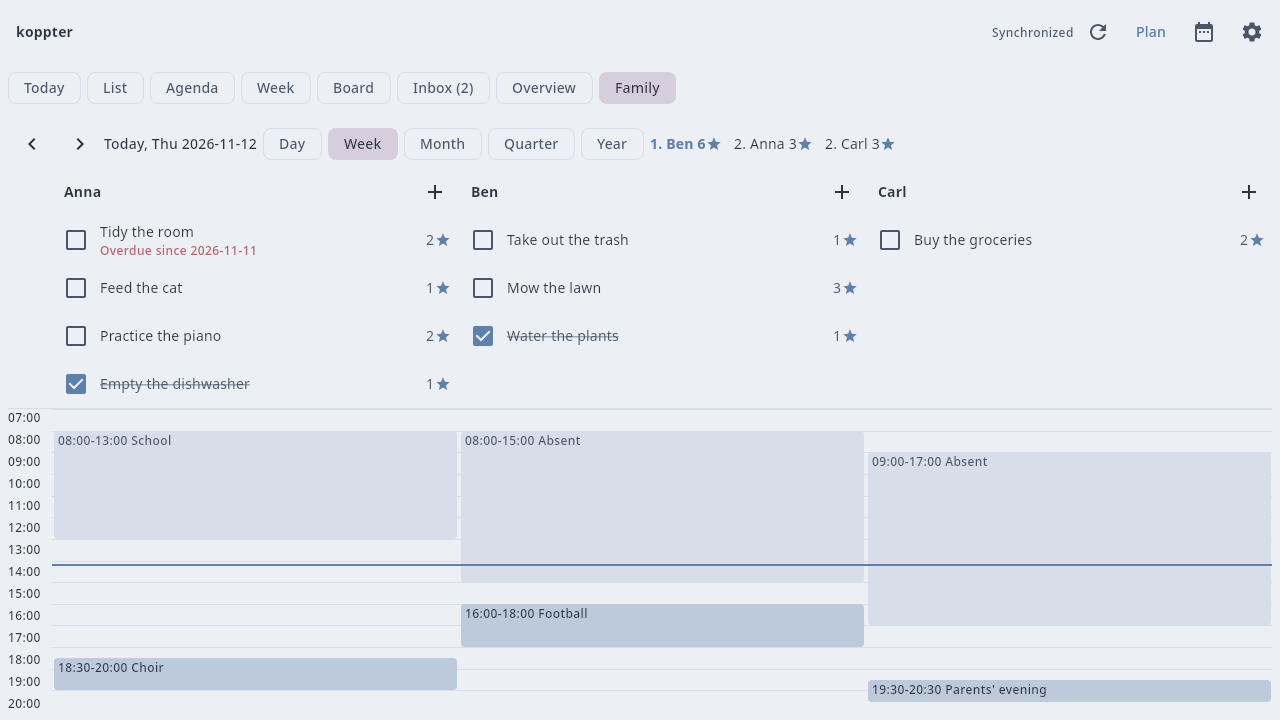
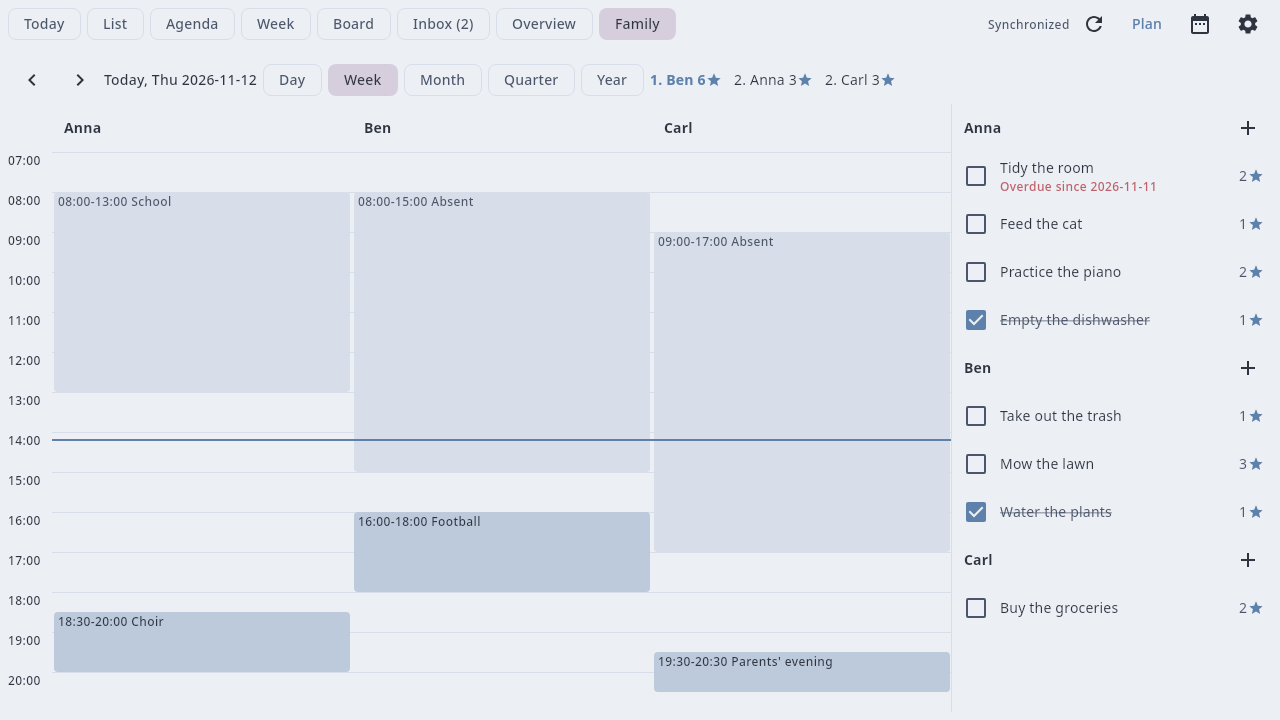
Show the calendar of a family first and its tasks below or beside it
The family view starts with the day of all members, in columns narrow enough for a phone, and lists the tasks per member below the calendar, or beside it in a window that is wider than high, where the hours need the height.

diff --git a/app/src/commonMain/kotlin/io/github/koppor/koppter/ui/FamilyCalendar.kt b/app/src/commonMain/kotlin/io/github/koppor/koppter/ui/FamilyCalendar.kt
@@ -31,6 +31,7 @@ import androidx.compose.material3.IconButton
 import androidx.compose.material3.MaterialTheme
 import androidx.compose.material3.Text
 import androidx.compose.material3.TextButton
+import androidx.compose.material3.VerticalDivider
 import androidx.compose.runtime.Composable
 import androidx.compose.runtime.getValue
 import androidx.compose.runtime.mutableStateOf
@@ -38,11 +39,13 @@ import androidx.compose.runtime.remember
 import androidx.compose.runtime.setValue
 import androidx.compose.ui.Alignment
 import androidx.compose.ui.Modifier
+import androidx.compose.ui.platform.LocalDensity
 import androidx.compose.ui.platform.testTag
 import androidx.compose.ui.text.font.FontWeight
 import androidx.compose.ui.text.style.TextDecoration
 import androidx.compose.ui.text.style.TextOverflow
 import androidx.compose.ui.unit.dp
+import io.github.koppor.koppter.plan.Appointment
 import io.github.koppor.koppter.plan.CalendarTxt
 import io.github.koppor.koppter.plan.Family
 import io.github.koppor.koppter.plan.RankingPeriod
@@ -53,14 +56,26 @@ import kotlinx.datetime.LocalDate
 import kotlinx.datetime.minus
 import kotlinx.datetime.plus
 
-/** A column still shows some words of a task beside the box and the stars; with more members than fit, the columns scroll sideways. */
-private val MIN_MEMBER_WIDTH = 200.dp
+/** A column of the calendar still shows the start and a word of a block; with more members than fit, the columns scroll sideways. */
+private val MIN_CALENDAR_WIDTH = 120.dp
+
+/** From this width of its column on, a block has the room to name its end as well. */
+private val ENDS_WIDTH = 180.dp
+
+/** The tasks of a member still show some words of a task beside the box and the stars. */
+private val MIN_TASKS_WIDTH = 240.dp
+
+/** From this width on, the tasks beside the calendar leave it two columns. */
+private val BESIDE_WIDTH = 600.dp
+
+// ponytail: a fixed width; a handle kept in the settings when the texts of the tasks need more.
+private val TASKS_WIDTH = 320.dp
 private val HOURS_WIDTH = 44.dp
 
 /**
- * The day of a family: the ranking of the members by their stars, and a column per member with the tasks of the day to tick off
- * and, below them, the day as a calendar with the appointments of the member and the blocks of the `calendar.txt` of the list
- * of the member, such as the times at which the member is absent.
+ * The day of a family: the ranking of the members by their stars, the day as a calendar with a column per member,
+ * which shows the appointments of the member and the blocks of the `calendar.txt` of the list of the member, such as the times
+ * at which the member is absent, and the tasks of the day of each member to tick off: below the calendar, or beside it in a wide window.
  */
 // [impl->dsn~family-view~1]
 @Composable
@@ -81,12 +96,6 @@ fun FamilyCalendar(
     // With the date as key: a tablet that runs for weeks shows the new day each morning.
     var day by remember(today) { mutableStateOf(today) }
     val ranking = Family.ranking(entries.map { it.task }, members, period, day)
-    val appointments = members.associateWith { Family.appointments(entries, it, members, day) }
-    val blocks = members.associateWith { member -> blocksOf(member).filter { it.date == day } }
-    val spans = appointments.values.flatten().map { it.span } + blocks.values.flatten().map { it.span }
-    // From breakfast to the evening at least, so that an empty day has a grid as well.
-    val firstHour = minOf(7, spans.minOfOrNull { it.start / 60 } ?: 7)
-    val lastHour = maxOf(21, spans.maxOfOrNull { (it.end + 59) / 60 } ?: 21)
 
     Column(Modifier.padding(8.dp).testTag("family")) {
         // On a phone, the periods of the ranking wrap below the day instead of leaving the screen.
@@ -133,48 +142,83 @@ fun FamilyCalendar(
             Text(problem, Modifier.padding(horizontal = 12.dp).testTag("family-problem"), color = MaterialTheme.colorScheme.error)
         }
         BoxWithConstraints(Modifier.fillMaxSize()) {
-            val width = maxOf(MIN_MEMBER_WIDTH, (maxWidth - HOURS_WIDTH) / members.size)
-            // The tasks leave the larger part to the calendar; more tasks than fit scroll.
-            val tasksHeight = maxHeight * 0.4f
-            Column(Modifier.horizontalScroll(rememberScrollState())) {
+            val calendars: @Composable (Modifier) -> Unit = { modifier ->
+                MemberCalendars(
+                    members.associateWith { member -> blocksOf(member).filter { it.date == day } },
+                    members.associateWith { Family.appointments(entries, it, members, day) },
+                    day, nowMinute.takeIf { day == today }, onOpen, modifier,
+                )
+            }
+            val tasks: @Composable (Modifier) -> Unit = { modifier ->
+                MemberTasks(members.associateWith { Family.todos(entries, it, members, day, today) }, today, onToggle, onOpen, onAdd, modifier)
+            }
+            // A window that is wider than high, such as a tablet or a phone held across, has few hours to give away:
+            // the calendar keeps the height and the tasks stand beside it.
+            if (maxWidth > maxHeight && maxWidth >= BESIDE_WIDTH) {
                 Row {
-                    Spacer(Modifier.width(HOURS_WIDTH))
-                    for (member in members) MemberHeader(member, onAdd = { onAdd(member) }, Modifier.width(width))
+                    calendars(Modifier.weight(1f))
+                    VerticalDivider()
+                    tasks(Modifier.width(TASKS_WIDTH))
                 }
-                Row(Modifier.heightIn(max = tasksHeight).verticalScroll(rememberScrollState())) {
-                    Spacer(Modifier.width(HOURS_WIDTH))
-                    for (member in members) {
-                        Column(Modifier.width(width).testTag("family-tasks-$member")) {
-                            val tasks = Family.todos(entries, member, members, day, today)
-                            if (tasks.isEmpty()) {
-                                Text("No tasks", Modifier.padding(horizontal = 12.dp, vertical = 8.dp), color = MaterialTheme.colorScheme.onSurfaceVariant)
-                            }
-                            for (entry in tasks) FamilyTask(entry, today, onToggle = { onToggle(entry) }, onOpen = { onOpen(entry) })
+            } else {
+                // Below the calendar, the tasks leave it the larger part.
+                val tasksHeight = maxHeight * 0.4f
+                Column {
+                    calendars(Modifier.weight(1f))
+                    HorizontalDivider()
+                    tasks(Modifier.heightIn(max = tasksHeight))
+                }
+            }
+        }
+    }
+}
+
+/** The day as a calendar with a column per member, under the name of the member. */
+@Composable
+private fun MemberCalendars(
+    blocks: Map<String, List<TextBlock>>,
+    appointments: Map<String, List<Appointment>>,
+    day: LocalDate,
+    nowMinute: Int?,
+    onOpen: (Entry) -> Unit,
+    modifier: Modifier,
+) {
+    val spans = appointments.values.flatten().map { it.span } + blocks.values.flatten().map { it.span }
+    // From breakfast to the evening at least, so that an empty day has a grid as well.
+    val firstHour = minOf(7, spans.minOfOrNull { it.start / 60 } ?: 7)
+    val lastHour = maxOf(21, spans.maxOfOrNull { (it.end + 59) / 60 } ?: 21)
+    BoxWithConstraints(modifier) {
+        val width = maxOf(MIN_CALENDAR_WIDTH, (maxWidth - HOURS_WIDTH) / blocks.size)
+        Column(Modifier.horizontalScroll(rememberScrollState())) {
+            Row {
+                Spacer(Modifier.width(HOURS_WIDTH))
+                for (member in blocks.keys) MemberHeader(member, onAdd = null, Modifier.width(width))
+            }
+            BoxWithConstraints(Modifier.weight(1f)) {
+                // The hours share the height that is left, so that the day is seen at once; only in a low window it scrolls.
+                val hourHeight = maxOf(MIN_HOUR_HEIGHT, maxHeight / (lastHour - firstHour))
+                // A low window does not show the whole day: it starts an hour before now.
+                // ponytail: once, when the view is opened; follow the time when a low window shows the view for days.
+                val start = with(LocalDensity.current) { (hourHeight * ((nowMinute ?: 0) / 60 - 1 - firstHour).coerceAtLeast(0)).roundToPx() }
+                val scroll = rememberScrollState(start)
+                Row(Modifier.verticalScroll(scroll)) {
+                    Column(Modifier.width(HOURS_WIDTH).testTag("family-hours")) {
+                        for (hour in firstHour until lastHour) {
+                            Text("${hour.toString().padStart(2, '0')}:00", Modifier.height(hourHeight), style = MaterialTheme.typography.labelSmall)
                         }
                     }
-                }
-                HorizontalDivider(Modifier.width(HOURS_WIDTH + width * members.size))
-                BoxWithConstraints(Modifier.weight(1f)) {
-                    // The hours share the height that is left, so that the day is seen at once; only in a low window it scrolls.
-                    val hourHeight = maxOf(MIN_HOUR_HEIGHT, maxHeight / (lastHour - firstHour))
-                    Row(Modifier.verticalScroll(rememberScrollState())) {
-                        Column(Modifier.width(HOURS_WIDTH).testTag("family-hours")) {
-                            for (hour in firstHour until lastHour) {
-                                Text("${hour.toString().padStart(2, '0')}:00", Modifier.height(hourHeight), style = MaterialTheme.typography.labelSmall)
-                            }
-                        }
-                        for (member in members) {
-                            // An appointment is a block with a task; the number of its line tells two with the same text apart.
-                            val tasks = appointments.getValue(member).associate { TextBlock(day, it.span, "${it.entry.task.description} #${it.entry.index}") to it.entry }
-                            Box(Modifier.width(width).testTag("family-calendar-$member")) {
-                                // The appointments last, so that one in a time of absence lies on top of it.
-                                DayColumn(
-                                    blocks.getValue(member) + tasks.keys, firstHour, lastHour, hourHeight,
-                                    entryOf = { tasks[it] }, suffixOf = { "" }, onOpen = onOpen, highlight = false,
-                                    nowMinute = nowMinute.takeIf { day == today },
-                                    ends = true,
-                                )
-                            }
+                    for (member in blocks.keys) {
+                        // An appointment is a block with a task; the number of its line tells two with the same text apart.
+                        val tasks = appointments.getValue(member).associate { TextBlock(day, it.span, "${it.entry.task.description} #${it.entry.index}") to it.entry }
+                        Box(Modifier.width(width).testTag("family-calendar-$member")) {
+                            // The appointments last, so that one in a time of absence lies on top of it.
+                            DayColumn(
+                                blocks.getValue(member) + tasks.keys, firstHour, lastHour, hourHeight,
+                                entryOf = { tasks[it] }, suffixOf = { "" }, onOpen = onOpen, highlight = false,
+                                nowMinute = nowMinute,
+                                ends = width >= ENDS_WIDTH,
+                                scroll = scroll,
+                            )
                         }
                     }
                 }
@@ -183,13 +227,53 @@ fun FamilyCalendar(
     }
 }
 
-/** The name of a member and the button for a new task of the member. */
+/** The tasks of the day of each member, to tick off, under the name of the member and the button for a new task of the member. */
 @Composable
-private fun MemberHeader(member: String, onAdd: () -> Unit, modifier: Modifier) {
-    Row(modifier.padding(start = 12.dp).testTag("family-member-$member"), verticalAlignment = Alignment.CenterVertically) {
+private fun MemberTasks(
+    tasks: Map<String, List<Entry>>,
+    today: LocalDate,
+    onToggle: (Entry) -> Unit,
+    onOpen: (Entry) -> Unit,
+    onAdd: (String) -> Unit,
+    modifier: Modifier,
+) {
+    val scroll = rememberScrollState()
+    Column(modifier) {
+        BoxWithConstraints(Modifier.weight(1f, fill = false)) {
+            // As many members beside each other as the width holds.
+            val width = maxWidth / (maxWidth / MIN_TASKS_WIDTH).toInt().coerceIn(1, tasks.size)
+            FlowRow(Modifier.verticalScroll(scroll)) {
+                for ((member, own) in tasks) {
+                    Column(Modifier.width(width).testTag("family-tasks-$member")) {
+                        MemberHeader(member, onAdd = { onAdd(member) }, Modifier.fillMaxWidth())
+                        if (own.isEmpty()) {
+                            Text("No tasks", Modifier.padding(horizontal = 12.dp, vertical = 8.dp), color = MaterialTheme.colorScheme.onSurfaceVariant)
+                        }
+                        for (entry in own) FamilyTask(entry, today, onToggle = { onToggle(entry) }, onOpen = { onOpen(entry) })
+                    }
+                }
+            }
+        }
+        // Without it, nothing tells that members follow below the last task in view.
+        if (scroll.canScrollForward) {
+            Text(
+                "More tasks below", Modifier.fillMaxWidth().padding(horizontal = 12.dp, vertical = 2.dp).testTag("family-more"),
+                style = MaterialTheme.typography.labelSmall, color = MaterialTheme.colorScheme.onSurfaceVariant,
+            )
+        }
+    }
+}
+
+/** The name of a member and, with [onAdd], the button for a new task of the member. */
+@Composable
+private fun MemberHeader(member: String, onAdd: (() -> Unit)?, modifier: Modifier) {
+    // As high as with the button, so that the names of the calendar and of the tasks look the same.
+    Row(modifier.padding(start = 12.dp).heightIn(min = 48.dp), verticalAlignment = Alignment.CenterVertically) {
         Text(member, Modifier.weight(1f), style = MaterialTheme.typography.titleLarge, maxLines = 1, overflow = TextOverflow.Ellipsis)
-        IconButton(onClick = onAdd, modifier = Modifier.testTag("family-add-$member")) {
-            Icon(Icons.Filled.Add, contentDescription = "New task of $member")
+        if (onAdd != null) {
+            IconButton(onClick = onAdd, modifier = Modifier.testTag("family-add-$member")) {
+                Icon(Icons.Filled.Add, contentDescription = "New task of $member")
+            }
         }
     }
 }

diff --git a/app/src/desktopTest/kotlin/io/github/koppor/koppter/ui/AppTest.kt b/app/src/desktopTest/kotlin/io/github/koppor/koppter/ui/AppTest.kt
@@ -3391,6 +3391,45 @@ class AppTest {
         onNodeWithText("Do the homework").assertExists()
     }
 
+    private fun ComposeUiTest.startFamily() {
+        val anna = MemoryStorage("Feed the cat\n").apply { companions["calendar.txt"] = "2026-11-12 w46 Thu  08:00-13:00 Absent\n" }
+        val controller = TodoController(Settings(view = "FAMILY"), { SharedLists(storage, listOf("anna" to anna, "ben" to MemoryStorage("Mow the lawn\n"))) }, today = { LocalDate(2026, 11, 12) })
+        setContent { App(controller, "todo.txt") }
+    }
+
+    // [utest->dsn~family-view~1]
+    @Test
+    fun theFamilyViewShowsTheTasksBelowTheCalendarInAHighWindow() = runDesktopComposeUiTest(width = 412, height = 760) {
+        startFamily()
+        val calendar = onNodeWithTag("family-calendar-ben").fetchSemanticsNode().boundsInRoot
+        val anna = onNodeWithTag("family-tasks-anna").fetchSemanticsNode().boundsInRoot
+        val ben = onNodeWithTag("family-tasks-ben").fetchSemanticsNode().boundsInRoot
+        assertTrue(anna.top >= calendar.bottom, "the tasks $anna stand below the calendar $calendar")
+        assertTrue(ben.top >= anna.bottom, "a phone has no room for the tasks of two members $anna and $ben beside each other")
+    }
+
+    // [utest->dsn~family-view~1]
+    @Test
+    fun theFamilyViewShowsTheTasksBesideTheCalendarInAWindowWiderThanHigh() = runDesktopComposeUiTest(width = 760, height = 412) {
+        startFamily()
+        val calendar = onNodeWithTag("family-calendar-ben").fetchSemanticsNode().boundsInRoot
+        val anna = onNodeWithTag("family-tasks-anna").fetchSemanticsNode().boundsInRoot
+        val ben = onNodeWithTag("family-tasks-ben").fetchSemanticsNode().boundsInRoot
+        assertTrue(anna.left >= calendar.right, "the tasks $anna stand beside the calendar $calendar")
+        assertTrue(ben.top >= anna.bottom && ben.left == anna.left, "the tasks of the members $anna and $ben stand below each other")
+    }
+
+    // [utest->dsn~family-view~1]
+    @Test
+    fun theFamilyViewSaysThatTasksFollowBelowThoseInView() = runDesktopComposeUiTest(width = 760, height = 412) {
+        val anna = MemoryStorage((1..8).joinToString("") { "Task $it\n" })
+        val controller = TodoController(Settings(view = "FAMILY"), { SharedLists(storage, listOf("anna" to anna, "ben" to MemoryStorage("Mow the lawn\n"))) }, today = { LocalDate(2026, 11, 12) })
+        setContent { App(controller, "todo.txt") }
+        onNodeWithTag("family-more").assertTextEquals("More tasks below")
+        onNodeWithText("Mow the lawn").performScrollTo()
+        onNodeWithTag("family-more").assertDoesNotExist()
+    }
+
     // [utest->dsn~family-view~1]
     @Test
     fun withoutMembersThereIsNoFamilyView() = runComposeUiTest {

diff --git a/app/src/commonMain/kotlin/io/github/koppor/koppter/ui/Agenda.kt b/app/src/commonMain/kotlin/io/github/koppor/koppter/ui/Agenda.kt
@@ -1,5 +1,7 @@
 package io.github.koppor.koppter.ui
 
+import androidx.compose.ui.unit.IntOffset
+import androidx.compose.foundation.ScrollState
 import androidx.compose.ui.text.style.TextDecoration
 import kotlin.math.abs
 import androidx.compose.ui.graphics.luminance
@@ -367,6 +369,8 @@ internal fun DayColumn(
     day: LocalDate? = null,
     /** Whether a block names its end as well, where the grid is too coarse to read it from. */
     ends: Boolean = false,
+    /** What scrolls the column from its top on: the text of a block then stays in view while the start of the block is scrolled out of it. */
+    scroll: ScrollState? = null,
 ) {
     val ofDay = day?.let { appointments?.onDay(it) }.orEmpty()
     fun overlaps(a: Span, b: Span) = a.start < b.end && b.start < a.end
@@ -406,7 +410,13 @@ internal fun DayColumn(
                     "${CalendarTxt.timesText(block.span).let { if (ends) it else it.substringBefore('-') }} ${entry?.let { it.task.description + suffixOf(it) } ?: block.text}",
                     style = MaterialTheme.typography.labelSmall,
                     overflow = TextOverflow.Ellipsis,
-                    modifier = Modifier.padding(horizontal = 4.dp, vertical = 1.dp),
+                    modifier = Modifier.padding(horizontal = 4.dp, vertical = 1.dp).then(
+                        if (scroll == null) Modifier else Modifier.offset {
+                            val top = (hourHeight * (block.span.start - firstHour * 60) / 60).roundToPx()
+                            val room = (hourHeight * block.span.length / 60 - MIN_HOUR_HEIGHT).roundToPx()
+                            IntOffset(0, (scroll.value - top).coerceIn(0, maxOf(0, room)))
+                        },
+                    ),
                 )
             }
         }

diff --git a/app/src/desktopTest/kotlin/io/github/koppor/koppter/ui/ScreenshotTest.kt b/app/src/desktopTest/kotlin/io/github/koppor/koppter/ui/ScreenshotTest.kt
@@ -312,6 +312,14 @@ class ScreenshotTest {
     @Test
     fun rendersLaptopForReview() = reviewScreens("laptop", width = 1280, height = 720)
 
+    // The one screen that differs in a window wider than high and still as narrow as a phone.
+    @Test
+    fun rendersFamilyOnAPhoneHeldAcrossForReview() = runDesktopComposeUiTest(width = 760, height = 412) {
+        start(members = true)
+        onNodeWithTag("family-switch").performScrollTo().performClick()
+        save("review/across-family.png")
+    }
+
     private fun reviewScreens(size: String, width: Int, height: Int) {
         // Each dialog in an application of its own: a dialog taller than the window is not closed reliably by a click in a test.
         fun screen(name: String, homeScreen: Boolean? = null, members: Boolean = false, open: DesktopComposeUiTest.() -> Unit) = runDesktopComposeUiTest(width = width, height = height) {

diff --git a/docs/requirements/family.md b/docs/requirements/family.md
@@ -79,12 +79,17 @@ Needs: impl, utest
 `FamilyCalendar` is the view *Family*, whose switch stands last and is there only while the tasks have members (`TodoController.views`); settings that name the view without members show the list.
 Its first row has the buttons for the day before and the day after, the day, which says so when it is today, *Today* while another day is shown, the periods of the ranking, and the ranking: the members by their place, each with its stars, the first place in the primary color unless nobody has a star.
 On a narrow screen, the periods and the ranking wrap below the day, so that all members are seen there, of whose columns a phone shows two.
-Below it, each member has a column, at least 200 dp wide, so that more columns than fit scroll sideways: the name and a button that opens the dialog of a new task with the context of the member.
-Below the names stand the tasks of the day, each with a box to tick it off, its text, which opens its dialog, and its stars; an overdue task says since when in the color of an error, and a completed one is struck through.
-The tasks take at most two fifths of the height and scroll beyond that; the calendar below shares the rest among its hours, at least from 07:00 to 21:00, as the week does, with a line at the current minute of today.
-The calendar of a member draws the blocks of the `calendar.txt` of the list first and the appointments over them (`DayColumn`), each with its start and its end, as the hours are too low to read the end from; a click on an appointment opens its task.
+Below it stands the day as a calendar with a column per member under the name of the member, at least 120 dp wide, so that a phone shows three members and more columns than fit scroll sideways.
+The calendar shares its height among its hours, at least from 07:00 to 21:00, as the week does, with a line at the current minute of today; in a window too low for the day, it scrolls and starts an hour before now.
+The calendar of a member draws the blocks of the `calendar.txt` of the list first and the appointments over them (`DayColumn`), each with its start and, in a column of 180 dp or more, its end, as the hours are too low to read the end from; a click on an appointment opens its task.
+The text of a block stays in view while the start of the block is scrolled out of it, so that a block that runs now says what it is.
+The tasks of the day stand apart from the calendar, as a column of the calendar is too narrow for their texts: per member the name, a button that opens the dialog of a new task with the context of the member, and the tasks.
+A task has a box to tick it off, its text, which opens its dialog, and its stars; an overdue task says since when in the color of an error, and a completed one is struck through.
+In a window that is higher than wide, or narrower than 600 dp, the tasks stand below the calendar, as many members beside each other as have 240 dp each; they take at most two fifths of the height.
+In a window that is wider than high, such as a tablet or a phone held across, the height is needed for the hours: the tasks stand beside the calendar in a pane of 320 dp, the members below each other.
+Tasks that do not fit scroll, and *More tasks below* says so until the last one is in view.
 The buttons that float above the other views, for a new task and for the search, are left out: they would cover the calendar, each member has a button for a new task, and there is nothing to search.
-The answers to the flow: ticking a task is what is done most, so the tasks stand above the calendar; it takes effect at once and is undone by the same box; a failure to write is shown as any other; the period is kept in the settings of the device as `rankingPeriod`, the day is not, as the view is to show today; on a phone, everything is reached by touch.
+The answers to the flow: the day is looked at first, so the calendar stands first, and ticking a task is what is done most, so the tasks are in view without scrolling, below or beside it; it takes effect at once and is undone by the same box; a failure to write is shown as any other; the period is kept in the settings of the device as `rankingPeriod`, the day is not, as the view is to show today; on a phone, everything is reached by touch.
 The filter does not apply, as the view shows the day of everybody: on a wide screen, the filter panel and the field of the search are left out, and the columns take the width.
 With Ctrl, 8 shows the view.
 

diff --git a/README.md b/README.md
@@ -706,18 +706,19 @@ Do not enter the published address of the same calendar under *Calendars with bu
 
 A family uses koppter together, such as on a tablet in the hallway: the view *Family* shows the day of each member in a column of its own.
 
-![Family view with a column per member, the tasks of the day above a calendar](docs/screenshots/family.png)
+![Family view with the calendar of the day in a column per member, and the tasks of the members beside it](docs/screenshots/family.png)
 
 * A member is a list.
   The repository of the family has a directory per member with a `todo.txt` file, such as `Anna/todo.txt` and `Ben/todo.txt` next to its own `todo.txt`; koppter reads each of them as a list and shows its tasks with the context `@Anna` or `@Ben` ([decision 0051](docs/decisions/0051-lists-of-members-as-directories-of-one-repository.md)).
   A repository named as a shared list in the settings is a member as well.
 * The view is there once the file has such lists; a directory that is added shows after the next start.
-* A column lists the tasks of its member for the day: those due on it, and today also the overdue ones and those without a due date.
+* A column shows the day of its member as a calendar.
+  A task with a time, such as `Football due:2026-11-21 at:17:00 dur:90m`, stands at its time, and so do the blocks of the `calendar.txt` in the directory of the member, such as `2026-11-21 w47 Sat  08:00-13:00 School`.
+* Below the calendar stand the tasks of the member for the day: those due on it, and today also the overdue ones and those without a due date.
+  In a window that is wider than high, such as a tablet or a phone held across, they stand beside the calendar instead.
   Ticking a task off gives the member its stars: one, or the number of the tag `stars:`, as in `Mow the lawn stars:3` ([decision 0052](docs/decisions/0052-tag-for-the-stars-of-a-task.md)).
 * Above the columns stands the ranking: the place and the stars of each member for the day, the week, the month, the quarter or the year.
   The stars are counted from the completed tasks, which have to stay in the file for that time.
-* Below the tasks, the day is a calendar.
-  A task with a time, such as `Football due:2026-11-21 at:17:00 dur:90m`, stands at its time, and so do the blocks of the `calendar.txt` in the directory of the member, such as `2026-11-21 w47 Sat  08:00-13:00 School`.
 * A member who has calendars elsewhere, such as that of an employer, enters their addresses under *Calendars of the members* in the tab *File* of the settings, on a device of their own; the address is the one for the [calendars with busy times](#calendars).
   That device writes the times of the events, for four weeks ahead, as blocks named `Absent` into the `calendar.txt` of the member, every half an hour while it runs; the other devices show them and learn neither the address nor what the events are ([decision 0053](docs/decisions/0053-absences-of-a-member-as-blocks-in-the-calendar-txt-of-the-list.md)).
   Events of whole days are left out.

diff --git a/CHANGELOG.md b/CHANGELOG.md
@@ -12,7 +12,7 @@ and this project adheres to [Calendar Versioning](https://calver.org/) with the 
 - Each stopped clock of a task adds the time to `timelog.txt` next to todo.txt, such as `2026-11-21 16:50-17:20 Write the report +Work`. *Away*, in the bar of the clock or at the top of *Today*, stops the clock and logs the time away until *Back* or the start of a task.
 - On a narrow screen, the filter shows the number of tasks that match its text, and a button *Go to results* closes it.
 - On Android, *Offer koppter as the home screen of this device* in the tab *Device* of the settings lets the user choose koppter as the home app, so that a device such as a tablet starts into koppter.
-- The view *Family* shows a day with a column per member of a family, each a list: the tasks of the day to tick off, and below them a calendar with the tasks that have a time and with the blocks of the `calendar.txt` of the list. The view is there once the file has such lists.
+- The view *Family* shows a day with a column per member of a family, each a list: a calendar with the tasks that have a time and with the blocks of the `calendar.txt` of the list, and the tasks of the day to tick off, below the calendar or, in a window that is wider than high, beside it. The view is there once the file has such lists.
 - Completing a task gives its member stars: one, or the number of the tag `stars:`, as in `Mow the lawn stars:3`. The family view shows the place and the stars of each member for the day, the week, the month, the quarter or the year.
 - *Calendars of the members* in the settings takes the addresses of published calendars of the members of a family. The device writes the times of their events as blocks named `Absent` into the `calendar.txt` of the list of the member, where the family view of every device shows them; what the events are stays on that device.
 - A directory next to a todo.txt file that has a todo.txt file of its own is a list as well, shown with the context named after the directory, such as `@anna` for `anna/todo.txt`. The members of a family keep their lists in one repository that way, which a device clones once.
